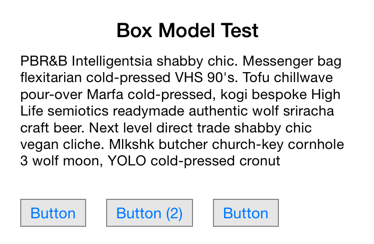
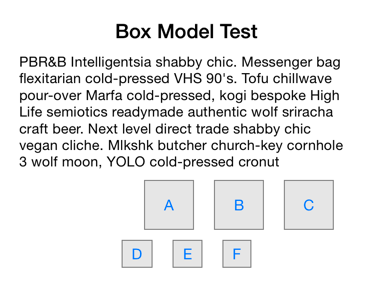
Box properties are strings for better readability. Added horizontal alignment and min size

diff --git a/YOLayoutExample/YOLayoutExample/BoxView/BoxView.m b/YOLayoutExample/YOLayoutExample/BoxView/BoxView.m
@@ -14,33 +14,34 @@
   [super viewInit];
   self.backgroundColor = UIColor.whiteColor;
 
-  YOVBox *contentView = [YOVBox box:@{@"spacing": @(10), @"insets": @(20)}];
-  [self addSubview:contentView];
-
+  YOVBox *labelsView = [YOVBox box:@{@"spacing": @"10", @"insets": @"20,20,0,20"}];
   UILabel *label1 = [[UILabel alloc] init];
   label1.text = @"Box Model Test";
   label1.font = [UIFont boldSystemFontOfSize:20];
   label1.textAlignment = NSTextAlignmentCenter;
-  [contentView addSubview:label1];
+  [labelsView addSubview:label1];
 
   UILabel *label2 = [[UILabel alloc] init];
   label2.font = [UIFont systemFontOfSize:14];
   label2.numberOfLines = 0;
   label2.text = @"PBR&B Intelligentsia shabby chic. Messenger bag flexitarian cold-pressed VHS 90's. Tofu chillwave pour-over Marfa cold-pressed, kogi bespoke High Life semiotics readymade authentic wolf sriracha craft beer. Next level direct trade shabby chic vegan cliche. Mlkshk butcher church-key cornhole 3 wolf moon, YOLO cold-pressed cronut";
-  [contentView addSubview:label2];
+  [labelsView addSubview:label2];
+  [self addSubview:labelsView];
 
-  YOHBox *buttons = [YOHBox box:@{@"spacing": @(20), @"insets": YOBoxInsets(20, 0, 20, 0)}];
-
-  UIButton *button1 = [self buttonWithText:@"Button"];
+  YOHBox *buttons = [YOHBox box:@{@"spacing": @"20", @"insets": @"10, 20, 10, 20", @"minSize": @"50,50", @"horizontalAlignment": @"right"}];
+  UIButton *button1 = [self buttonWithText:@"A"];
   [buttons addSubview:button1];
-
-  UIButton *button2 = [self buttonWithText:@"Button (2)"];
+  UIButton *button2 = [self buttonWithText:@"B"];
   [buttons addSubview:button2];
-
-  UIButton *button3 = [self buttonWithText:@"Button"];
+  UIButton *button3 = [self buttonWithText:@"C"];
   [buttons addSubview:button3];
+  [self addSubview:buttons];
 
-  [contentView addSubview:buttons];
+  YOHBox *buttonsCenter = [YOHBox box:@{@"spacing": @"20", @"horizontalAlignment": @"center"}];
+  [buttonsCenter addSubview:[self buttonWithText:@"D"]];
+  [buttonsCenter addSubview:[self buttonWithText:@"E"]];
+  [buttonsCenter addSubview:[self buttonWithText:@"F"]];
+  [self addSubview:buttonsCenter];
 }
 
 - (UIButton *)buttonWithText:(NSString *)text {

diff --git a/YOLayout/Box/YOHBox.m b/YOLayout/Box/YOHBox.m
@@ -21,17 +21,47 @@
     CGFloat maxHeight = 0;
     NSArray *subviews = [yself subviews];
     for (id subview in subviews) {
-      CGRect viewFrame = [layout sizeToFitInFrame:CGRectMake(x, y, size.width, size.height) view:subview];
-      x += viewFrame.size.width;
-      maxHeight = MAX(viewFrame.size.height, maxHeight);
+      CGSize viewSize = [subview sizeThatFits:size];
+      viewSize.width = MAX(viewSize.width, self.minSize.width);
+      viewSize.height = MAX(viewSize.height, self.minSize.height);
+      [layout setFrame:CGRectMake(x, y, viewSize.width, viewSize.height) view:subview];
+      x += viewSize.width;
+      maxHeight = MAX(viewSize.height, maxHeight);
       if (++index != subviews.count) x += yself.spacing;
 
     }
     x += yself.insets.right;
     y += maxHeight + yself.insets.bottom;
 
+    // Re-position for alignment
+    CGFloat position = 0;
+    if (self.horizontalAlignment == YOHorizontalAlignmentRight) {
+      position = size.width - x - yself.insets.right;
+    } else if (self.horizontalAlignment == YOHorizontalAlignmentCenter) {
+      position = size.width/2.0 - x/2.0;
+    }
+
+    if (position > 0) {
+      for (id subview in subviews) {
+        CGRect frame = [subview frame];
+        frame.origin.x += position;
+        [layout setFrame:frame view:subview];
+      }
+    }
+
     return CGSizeMake(MAX(x, size.width), MAX(y, size.height));
   }];
+}
+
+- (void)setOptions:(NSDictionary *)options {
+  [super setOptions:options];
+  NSArray *minSize = [self parseOption:options[@"minSize"] isFloat:YES minCount:2];
+  self.minSize = CGSizeMake([minSize[0] floatValue], [minSize[1] floatValue]);
+
+  NSString *ha = options[@"horizontalAlignment"];
+  if ([ha isEqualToString:@"right"]) self.horizontalAlignment = YOHorizontalAlignmentRight;
+  else if ([ha isEqualToString:@"center"]) self.horizontalAlignment = YOHorizontalAlignmentCenter;
+  else if ([ha isEqualToString:@"left"]) self.horizontalAlignment = YOHorizontalAlignmentLeft;
 }
 
 @end

diff --git a/YOLayout/Box/YOBox_IMP.m b/YOLayout/Box/YOBox_IMP.m
@@ -20,17 +20,26 @@
   return box;
 }
 
+- (NSArray *)parseOption:(NSString *)option isFloat:(BOOL)isFloat minCount:(NSInteger)minCount {
+  if (!option) return nil;
+
+  NSArray *split = [option componentsSeparatedByString:@","];
+  NSMutableArray *options = [NSMutableArray array];
+  for (NSString *o in split) {
+    if (isFloat) [options addObject:@([o floatValue])];
+    else [options addObject:@([o integerValue])];
+  }
+  if ([options count] < minCount) return nil;
+  return options;
+}
+
 - (void)setOptions:(NSDictionary *)options {
-  id insets = options[@"insets"];
+  NSArray *insets = [self parseOption:options[@"insets"] isFloat:YES minCount:1];
   if (insets) {
-    if ([insets isKindOfClass:NSArray.class]) {
-      if ([insets count] != 4) {
-        [NSException raise:NSInvalidArgumentException format:@"Invalid insets"];
-        return;
-      }
+    if ([insets count] == 4) {
       self.insets = UIEdgeInsetsMake([insets[0] floatValue], [insets[1] floatValue], [insets[2] floatValue], [insets[3] floatValue]);
     } else {
-      self.insets = UIEdgeInsetsMake([insets floatValue], [insets floatValue], [insets floatValue], [insets floatValue]);
+      self.insets = UIEdgeInsetsMake([insets[0] floatValue], [insets[0] floatValue], [insets[0] floatValue], [insets[0] floatValue]);
     }
   }
   self.spacing = [options[@"spacing"] floatValue];

diff --git a/YOLayout/YOLayout_IMP.h b/YOLayout/YOLayout_IMP.h
@@ -26,6 +26,10 @@ static inline UIEdgeInsets UIEdgeInsetsMake(CGFloat top, CGFloat left, CGFloat b
   return insets;
 }
 
+static inline UIEdgeInsets UIEdgeInsetsAdd(UIEdgeInsets i1, UIEdgeInsets i2) {
+  return UIEdgeInsetsMake(i1.top + i2.top, i1.left + i2.left, i1.bottom + i2.bottom, i1.right + i2.right);
+}
+
 static inline NSString *YONSStringFromCGRect(CGRect rect) {
   return [NSString stringWithFormat:@"(%@, %@, %@, %@)", @(rect.origin.x), @(rect.origin.y), @(rect.size.width), @(rect.size.height)];
 }

diff --git a/YOLayout/Box/YOBox_IMP.h b/YOLayout/Box/YOBox_IMP.h
@@ -8,8 +8,6 @@
 
 #import <Foundation/Foundation.h>
 
-#define YOBoxInsets(TOP, RIGHT, BOTTOM, LEFT) (@[@(TOP), @(LEFT), @(BOTTOM), @(RIGHT)])
-
 #if TARGET_OS_IPHONE
 #import "YOView.h"
 #else
@@ -23,6 +21,8 @@
 
 + (instancetype)box;
 + (instancetype)box:(NSDictionary *)options;
+
+- (NSArray *)parseOption:(NSString *)option isFloat:(BOOL)isFloat minCount:(NSInteger)minCount;
 
 - (void)setOptions:(NSDictionary *)options;
 

diff --git a/YOLayout/Box/YOHBox.h b/YOLayout/Box/YOHBox.h
@@ -10,6 +10,16 @@
 
 #import "YOBox_IMP.h"
 
+typedef NS_ENUM(NSInteger, YOHorizontalAlignment) {
+  YOHorizontalAlignmentNone,
+  YOHorizontalAlignmentLeft,
+  YOHorizontalAlignmentCenter,
+  YOHorizontalAlignmentRight
+};
+
 @interface YOHBox : YOBox
+
+@property CGSize minSize;
+@property YOHorizontalAlignment horizontalAlignment;
 
 @end

diff --git a/README.md b/README.md
@@ -216,33 +216,44 @@ The `YOLayout/Box` subspec has a box model `YOVBox` and `YOHBox`. This is an exa
   [super viewInit];
   self.backgroundColor = UIColor.whiteColor;
 
-  YOVBox *contentView = [YOVBox box:@{@"spacing": @(10), @"insets": @(20)}];
-  [self addSubview:contentView];
-
+  YOVBox *labelsView = [YOVBox box:@{@"spacing": @"10", @"insets": @"20,20,0,20"}];
   UILabel *label1 = [[UILabel alloc] init];
   label1.text = @"Box Model Test";
   label1.font = [UIFont boldSystemFontOfSize:20];
   label1.textAlignment = NSTextAlignmentCenter;
-  [contentView addSubview:label1];
+  [labelsView addSubview:label1];
 
   UILabel *label2 = [[UILabel alloc] init];
   label2.font = [UIFont systemFontOfSize:14];
   label2.numberOfLines = 0;
   label2.text = @"PBR&B Intelligentsia shabby chic. Messenger bag flexitarian cold-pressed VHS 90's. Tofu chillwave pour-over Marfa cold-pressed, kogi bespoke High Life semiotics readymade authentic wolf sriracha craft beer. Next level direct trade shabby chic vegan cliche. Mlkshk butcher church-key cornhole 3 wolf moon, YOLO cold-pressed cronut";
-  [contentView addSubview:label2];
+  [labelsView addSubview:label2];
+  [self addSubview:labelsView];
 
-  YOHBox *buttons = [YOHBox box:@{@"spacing": @(20), @"insets": YOBoxInsets(20, 0, 20, 0)}];
-
-  UIButton *button1 = [self buttonWithText:@"Button"];
+  YOHBox *buttons = [YOHBox box:@{@"spacing": @"20", @"insets": @"10, 20, 10, 20", @"minSize": @"50,50", @"horizontalAlignment": @"right"}];
+  UIButton *button1 = [self buttonWithText:@"A"];
   [buttons addSubview:button1];
-
-  UIButton *button2 = [self buttonWithText:@"Button (2)"];
+  UIButton *button2 = [self buttonWithText:@"B"];
   [buttons addSubview:button2];
-
-  UIButton *button3 = [self buttonWithText:@"Button"];
+  UIButton *button3 = [self buttonWithText:@"C"];
   [buttons addSubview:button3];
+  [self addSubview:buttons];
 
-  [contentView addSubview:buttons];
+  YOHBox *buttonsCenter = [YOHBox box:@{@"spacing": @"20", @"horizontalAlignment": @"center"}];
+  [buttonsCenter addSubview:[self buttonWithText:@"D"]];
+  [buttonsCenter addSubview:[self buttonWithText:@"E"]];
+  [buttonsCenter addSubview:[self buttonWithText:@"F"]];
+  [self addSubview:buttonsCenter];
+}
+
+- (UIButton *)buttonWithText:(NSString *)text {
+  UIButton *button = [UIButton buttonWithType:UIButtonTypeSystem];
+  button.backgroundColor = [UIColor colorWithWhite:0.9 alpha:1.0];
+  [button setTitle:text forState:UIControlStateNormal];
+  button.layer.borderWidth = 1.0;
+  button.layer.borderColor = UIColor.grayColor.CGColor;
+  button.contentEdgeInsets = UIEdgeInsetsMake(5, 10, 5, 10);
+  return button;
 }
 
 @end
